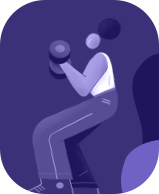
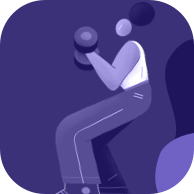
fix: refactoring checkins page

diff --git a/mobile/src/pages/Dashboard/index.js b/mobile/src/pages/Dashboard/index.js
@@ -22,7 +22,7 @@ import Checkin from '~/components/DataDisplay/Checkin';
 import illustration from '~/assets/Illustration.png';
 import ChartsContainer from './Charts';
 import Empty from '~/components/Empty/';
-import { SkeletonContent } from './Skeleton';
+import { SkeletonContent, SkeletonGraph } from './Skeleton';
 
 const Dashboard = () => {
   const checkins = useSelector(state => state.checkins.list);
@@ -63,7 +63,15 @@ const Dashboard = () => {
     return 'night';
   }
 
-  const flatList = useRef(null);
+  // const flatList = useRef(null);
+
+  const didMountRef = useRef(false);
+
+  useEffect(() => {
+    if (didMountRef.current) {
+      dispatch(loadCheckinsRequest(studentId));
+    } else didMountRef.current = true;
+  }, []);
 
   return (
     <Wrapper color="light">
@@ -98,11 +106,11 @@ const Dashboard = () => {
           <SkeletonContent />
         ) : (
           <CheckinList
-            ref={flatList}
-            onContentSizeChange={() => flatList.current.scrollToEnd()}
             data={checkins}
             extraData={checkins}
-            keyExtractor={item => String(item.id)}
+            keyExtractor={checkin =>
+              String(Math.floor(Math.random(checkin.id)))
+            }
             ListEmptyComponent={() => (
               <Empty
                 src=""
@@ -110,8 +118,8 @@ const Dashboard = () => {
                 content="Make your first checkin by clicking on the green add button."
               />
             )}
-            renderItem={({ item, index }) => (
-              <Checkin data={item} index={index} />
+            renderItem={({ item: checkin, index }) => (
+              <Checkin data={checkin} index={index} />
             )}
           />
         )}

diff --git a/mobile/src/pages/Dashboard/AddNewCheckin.js b/mobile/src/pages/Dashboard/AddNewCheckin.js
@@ -1,0 +1,39 @@
+import React from 'react';
+import { useSelector, useDispatch } from 'react-redux';
+import Icon from 'react-native-vector-icons/MaterialCommunityIcons';
+
+import { hideModal } from '~/store/reducers/modals/actions';
+import { makeCheckinRequest } from '~/store/reducers/checkins/actions';
+
+import { Container, CloseBtn } from './styles';
+import Button from '~/components/Button';
+
+function AddNewCheckin() {
+  const dispatch = useDispatch();
+
+  const isLoading = useSelector(state => state.orders.loading);
+  const student = useSelector(state => state.enrollment.profile.student);
+  const studentId = student.id;
+
+  function handleCheckin() {
+    dispatch(makeCheckinRequest(studentId));
+  }
+
+  function handleCloseModal() {
+    dispatch(hideModal());
+  }
+
+  return (
+    <Container>
+      <CloseBtn onPress={handleCloseModal}>
+        <Icon name="close" size={26} color="#fff" />
+      </CloseBtn>
+
+      <Button fullWidth onPress={handleCheckin} isLoading={isLoading}>
+        Confirm Checkin
+      </Button>
+    </Container>
+  );
+}
+
+export default AddNewCheckin;

diff --git a/mobile/src/pages/Dashboard/styles.js b/mobile/src/pages/Dashboard/styles.js
@@ -2,7 +2,7 @@ import styled from 'styled-components/native';
 
 import colors from '~/styles/colors';
 
-export const Main = styled.ScrollView`
+export const Main = styled.View`
   flex: 4;
   padding: 0px 30px;
   margin-top: 30px;
@@ -21,6 +21,7 @@ export const CheckinList = styled.FlatList.attrs({
   showsVerticalScrollIndicator: false,
 })`
   color: white;
+  height: 100%;
 `;
 
 export const Greeting = styled.View`
@@ -45,7 +46,8 @@ export const Name = styled.Text`
 export const Image = styled.Image`
   flex: 1;
   position: relative;
-  right: -12px;
+  right: -5px;
+  top: 8px;
 `;
 
 export const Title = styled.Text`
@@ -77,4 +79,10 @@ export const Charts = styled.View`
 
 export const ChartGroup = styled.View`
   align-items: center;
+`;
+
+export const CloseBtn = styled.TouchableOpacity`
+  align-items: flex-end;
+  position: relative;
+  top: -10px;
 `;

diff --git a/mobile/src/store/reducers/checkins/sagas.js b/mobile/src/store/reducers/checkins/sagas.js
@@ -1,6 +1,5 @@
 import { call, put, all, takeLatest } from 'redux-saga/effects';
 import { Alert } from 'react-native';
-import { parseISO, formatRelative } from 'date-fns';
 
 import api from '~/services/api';
 
@@ -24,6 +23,7 @@ export function* loadCheckins({ payload }) {
     yield put(loadCheckinsFailure());
   }
 }
+
 export function* makeCheckin({ payload }) {
   try {
     const { id } = payload;
@@ -31,6 +31,7 @@ export function* makeCheckin({ payload }) {
     const response = yield call(api.post, `/students/${id}/checkins`);
 
     yield put(makeCheckinSuccess(response.data));
+
     yield put(loadCheckinsRequest(id));
   } catch (error) {
     Alert.alert(`Error: ${error.response.data.error}`);

diff --git a/mobile/src/store/reducers/checkins/index.js b/mobile/src/store/reducers/checkins/index.js
@@ -26,11 +26,13 @@ export default function checkins(state = INITIAL_STATE, action) {
         draft.showError = action.payload.error;
         break;
       }
+
       // ADD
       case '@checkin/CHECKIN_REQUEST': {
         draft.loading = true;
         break;
       }
+
       case '@checkin/CHECKIN_SUCCESS': {
         draft.current = action.payload.checkin;
         draft.list = [...draft.list, action.payload.checkin];

diff --git a/mobile/src/pages/Orders/index.js b/mobile/src/pages/Orders/index.js
@@ -7,7 +7,7 @@ import { loadOrdersRequest } from '~/store/reducers/orders/actions';
 import { showModal } from '~/store/reducers/modals/actions';
 
 import { Container, Header, Title } from '~/styles/layout';
-import { OrderList, LabelChart, Label } from './styles';
+import { OrderList } from './styles';
 
 import Wrapper from '~/components/Wrapper';
 import Order from '~/components/DataDisplay/Order';
